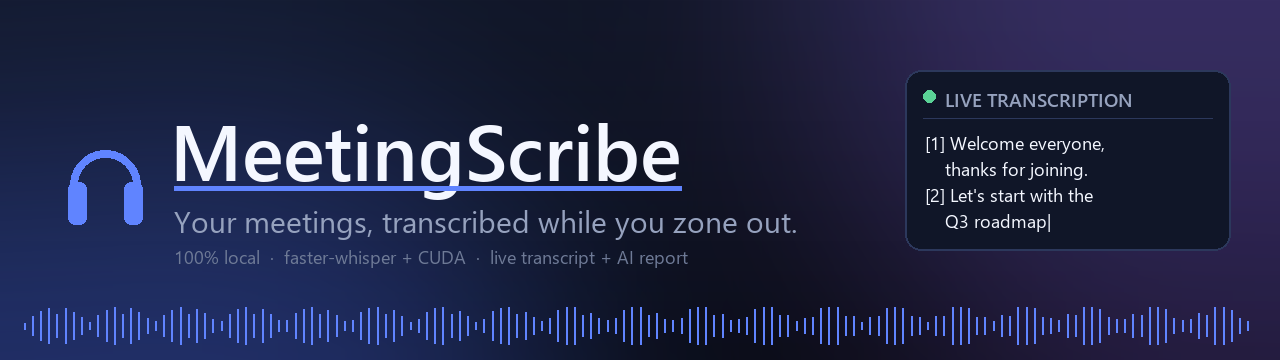
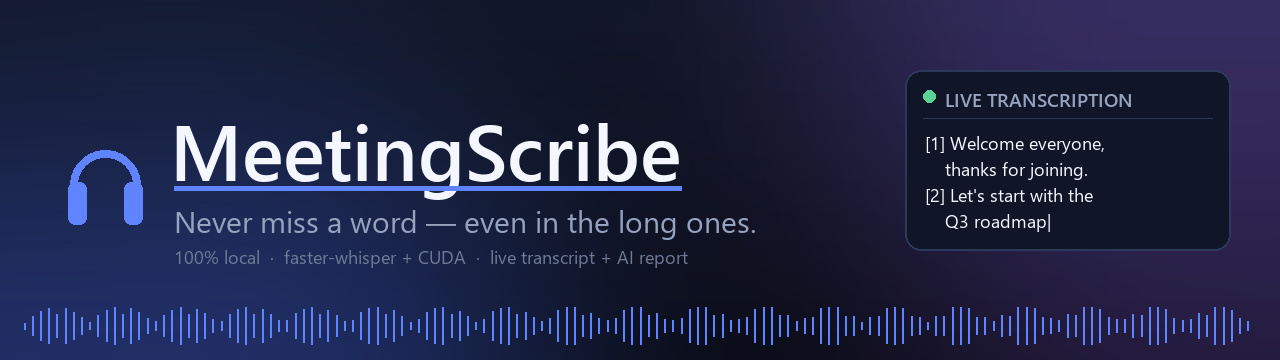
Soften the meeting jokes for a professional audience
Scope the humor to a single long meeting rather than implying all meetings
are boring; reframe the footer/banner around staying present instead of
zoning out.

Changed region(s): [[0.125, 0.5806, 0.625, 0.6722]]

diff --git a/docs/make_banner.py b/docs/make_banner.py
@@ -74,7 +74,7 @@ def build():
     d.text((tx, 96), "MeetingScribe", font=F_TITLE, fill=TEXT)
     tw = F_TITLE.getlength("MeetingScribe")
     d.line((tx + 4, 188, tx + tw, 188), fill=ACCENT, width=5)
-    d.text((tx + 4, 200), "Your meetings, transcribed while you zone out.",
+    d.text((tx + 4, 200), "Never miss a word — even in the long ones.",
            font=F_TAG, fill=DIM)
     d.text((tx + 4, 244), "100% local  ·  faster-whisper + CUDA  ·  live transcript + AI report",
            font=F_TINY, fill=(110, 122, 150))

diff --git a/README.md b/README.md
@@ -4,7 +4,7 @@
 
 # 🎧 MeetingScribe
 
-### Bored of your Zoom meetings? 😴 Let your GPU take the notes.
+### Got one of *those* never-ending meetings coming up? 😅 Let your GPU take the notes.
 
 ![Python](https://img.shields.io/badge/Python-3.11+-3776AB?logo=python&logoColor=white)
 ![Windows](https://img.shields.io/badge/Windows-WASAPI%20loopback-0078D6?logo=windows&logoColor=white)
@@ -188,8 +188,8 @@ See [vClean_Dokumentation.md](vClean_Dokumentation.md) (in German).
 
 <div align="center">
 
-**Stop taking notes. Start zoning out.** 🎧
+**Stay in the conversation — let your GPU keep the notes.** 🎧
 
-If MeetingScribe saved you from one boring meeting, drop a ⭐
+If MeetingScribe got you through one marathon meeting in one piece, drop a ⭐
 
 </div>